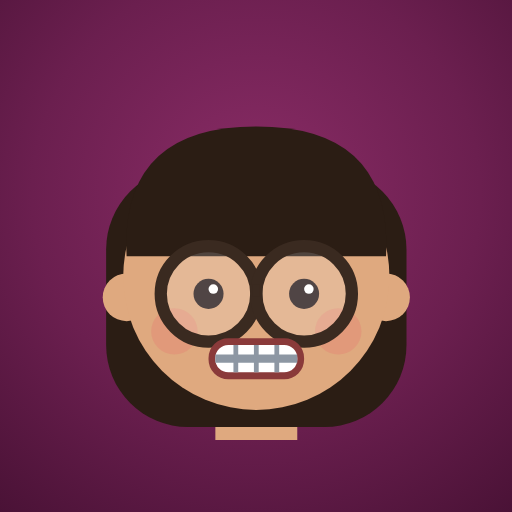
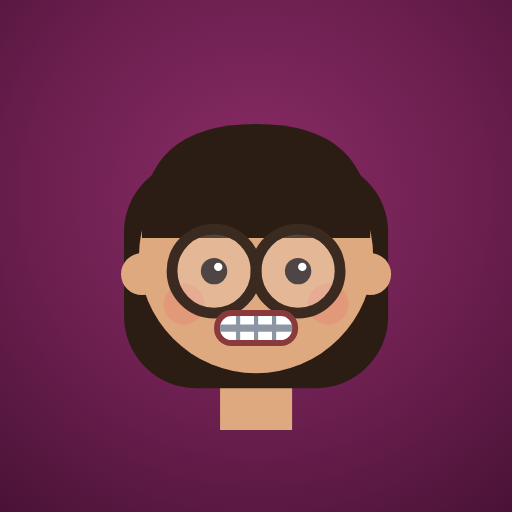
Ícone do iPhone com o rosto da Betty centralizado
O apple-touch-icon de 180px saía só com o fundo: o Chrome sem janela não
renderiza abaixo de 500px de largura. Agora os tamanhos menores são
reduzidos a partir do de 512px, e o arquivo ganhou nome novo para o iOS
não usar o antigo em cache.

diff --git a/index.html b/index.html
@@ -10,8 +10,8 @@
 <meta name="apple-mobile-web-app-status-bar-style" content="black-translucent">
 <meta name="apple-mobile-web-app-title" content="¿Y ahora qué, Betty?">
 <link rel="manifest" href="manifest.webmanifest">
-<link rel="icon" type="image/png" sizes="192x192" href="icons/icon-192.png">
-<link rel="apple-touch-icon" href="icons/apple-touch-icon.png">
+<link rel="icon" type="image/png" sizes="192x192" href="icons/icon-192.png?v=2">
+<link rel="apple-touch-icon" sizes="180x180" href="icons/apple-touch-icon-v2.png">
 <title>¿Y ahora qué, Betty?</title>
 <link rel="preconnect" href="https://fonts.googleapis.com">
 <link rel="preconnect" href="https://fonts.gstatic.com" crossorigin>

diff --git a/sw.js b/sw.js
@@ -1,7 +1,7 @@
 // Service worker: guarda el juego para que funcione sin conexión.
-const CACHE = "betty-v6";
+const CACHE = "betty-v7";
 const CORE = ["./", "./index.html", "./manifest.webmanifest",
-  "./icons/icon-192.png", "./icons/icon-512.png", "./icons/icon-maskable-512.png", "./icons/apple-touch-icon.png"];
+  "./icons/icon-192.png", "./icons/icon-512.png", "./icons/icon-maskable-512.png", "./icons/apple-touch-icon-v2.png"];
 
 self.addEventListener("install", e => {
   e.waitUntil(caches.open(CACHE).then(c => c.addAll(CORE)).then(() => self.skipWaiting()));
